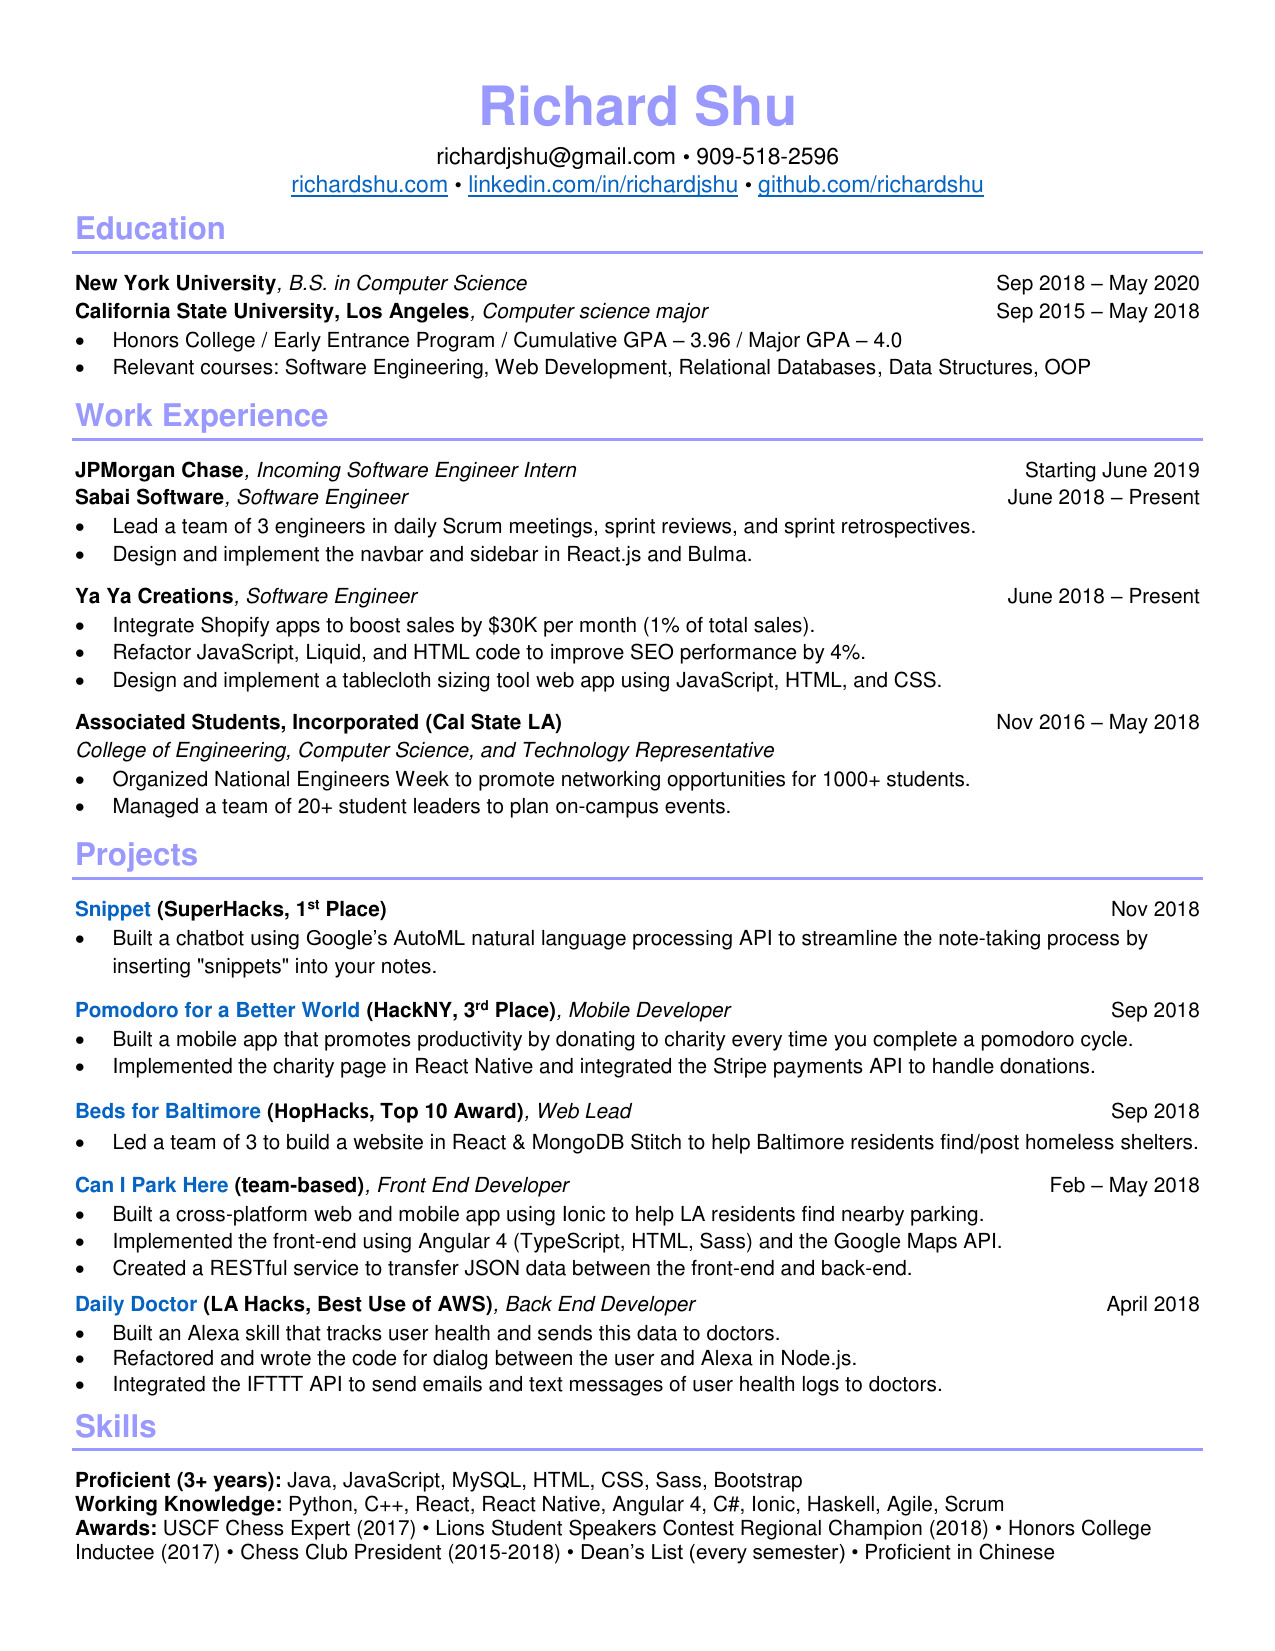
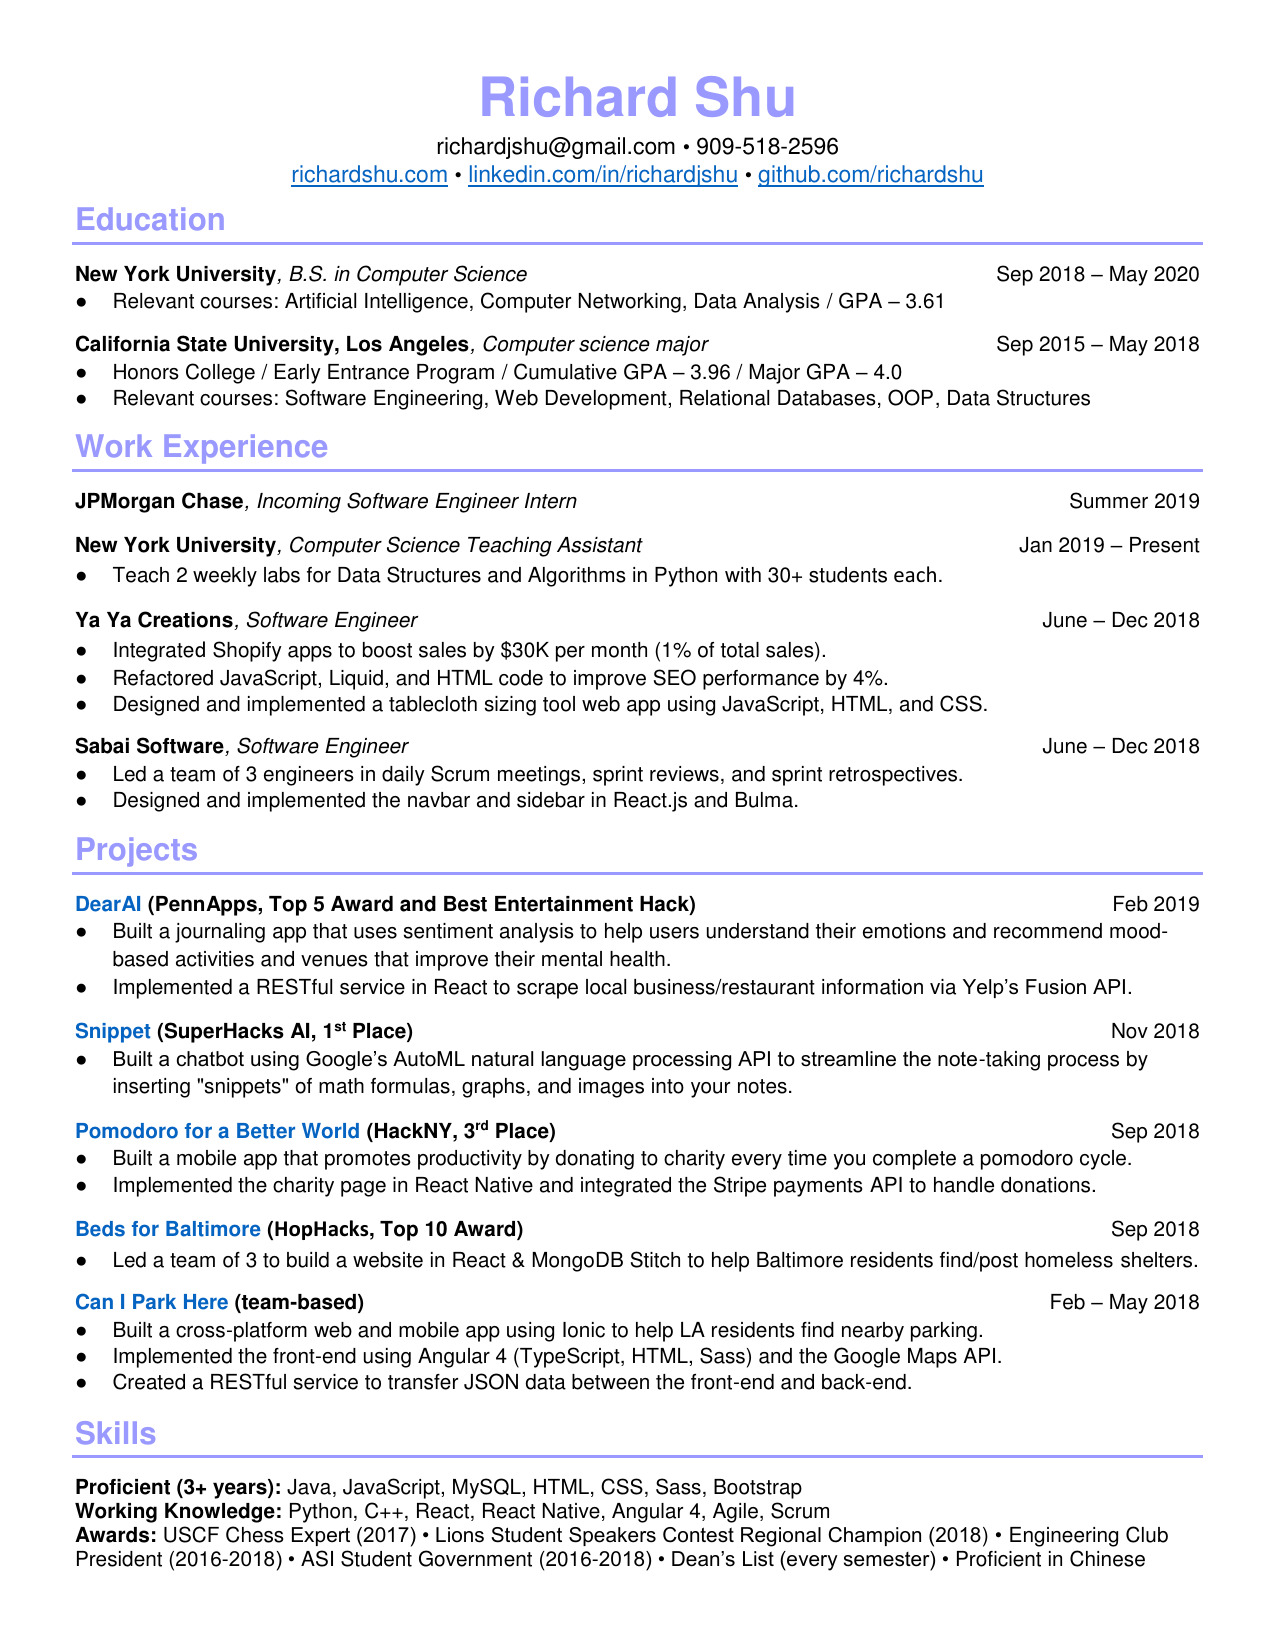
Update resume link and image

Changed region(s): [[0.0612, 0.0309, 0.9482, 0.9576], [0.7953, 0.278, 0.9482, 0.4016], [0.7953, 0.4325, 0.9482, 0.4634]]

diff --git a/resume.html b/resume.html
@@ -37,10 +37,10 @@
 		<div id="header"></div>
 		<section class="container-fluid text-center animated fadeIn">
 			<!-- TIP: Use https://pdfresizer.com/convert to convert a PDF to PNG -->
-			<a target="_blank" href="https://drive.google.com/file/d/1HCsQ9rOxu4iSztvKNyOPskYplY6M7fXV/view?usp=sharing" >
+			<a target="_blank" href="https://drive.google.com/file/d/1DUxWzrOwvZ_IjuDh7GmpLhRTjd0idJEq/view?usp=sharing" >
 				<img id="resume-pic" class="img-responsive" src="images/resume.jpg">
 			</a><br>
-			<a id="download-button" class="btn btn-primary" href="https://drive.google.com/file/d/1HCsQ9rOxu4iSztvKNyOPskYplY6M7fXV/view?usp=sharing" target="_blank">Download</a>
+			<a id="download-button" class="btn btn-primary" href="https://drive.google.com/file/d/1DUxWzrOwvZ_IjuDh7GmpLhRTjd0idJEq/view?usp=sharing" target="_blank">Download</a>
 		</section>
 		<div id="footer"></div>
 
